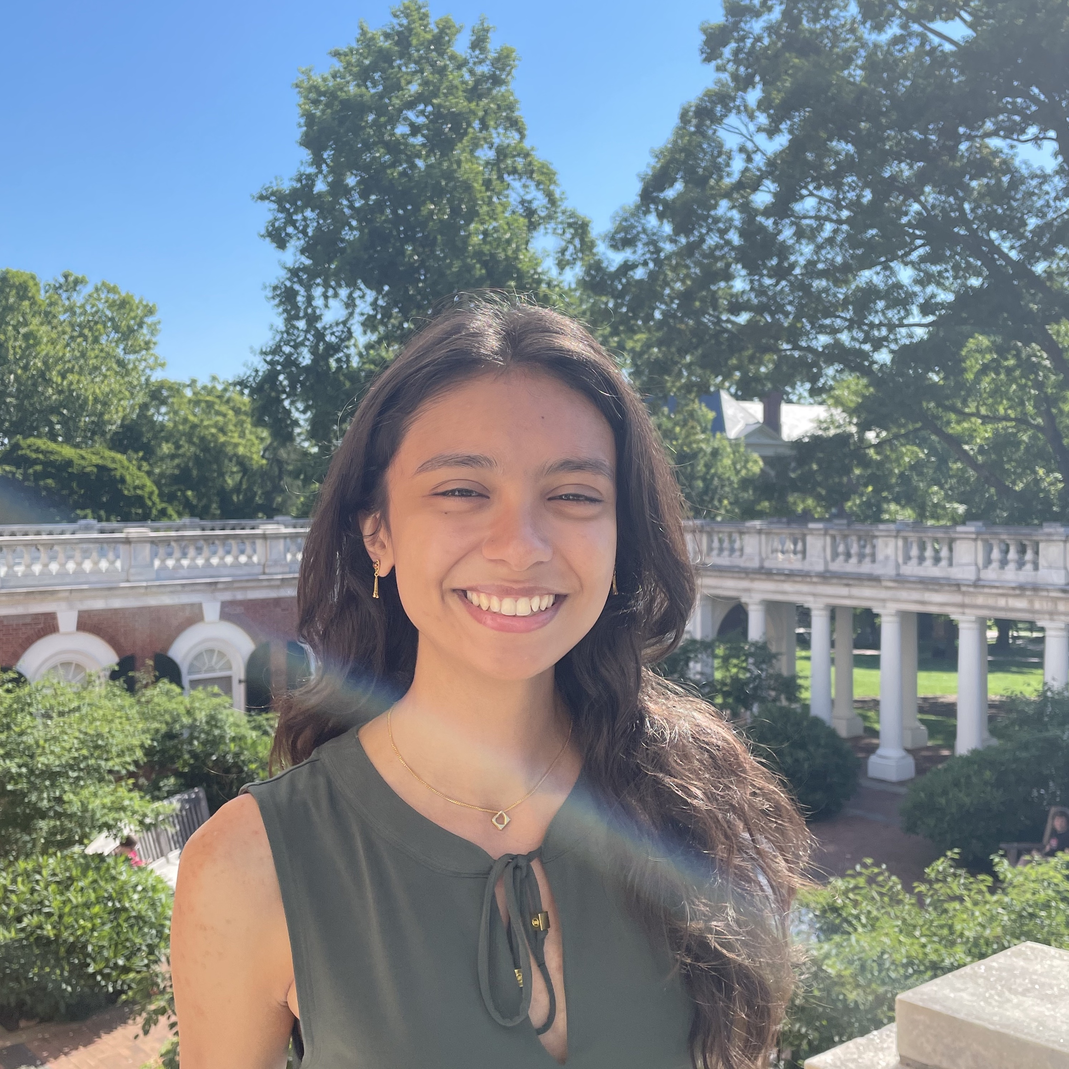
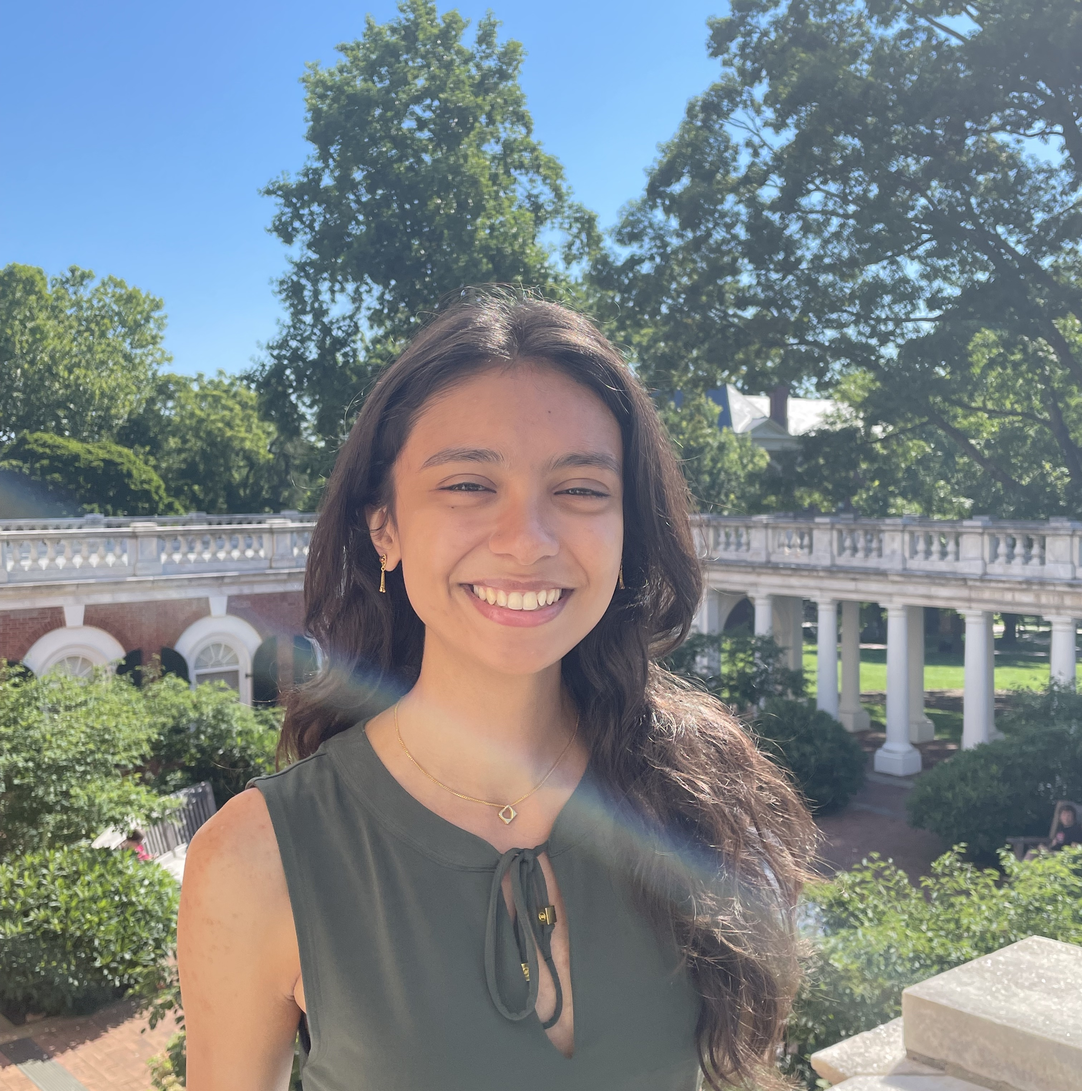
border to portrait

diff --git a/src/App.jsx b/src/App.jsx
@@ -1,6 +1,8 @@
 import { useState } from 'react'
 import reactLogo from './assets/react.svg'
+
 import peneetaPortrait from './assets/peneeta_portrait.jpg'
+
 import './App.css'
 
 import Navbar from './components/Navbar';
@@ -11,7 +13,15 @@ function App() {
     <div className="App">
       <Navbar/>
       <div className="hero">
-        <img className="peneeta-portrait square" src={peneetaPortrait} alt="peneeta portrait" />
+        <div className="portrait-wrapper">
+
+          <div className="portrait">
+            <img className="peneeta-portrait square" src={peneetaPortrait} alt="peneeta portrait" />
+          </div>
+
+        </div>
+        
+        
         <div className="container">
           <div className="text-wrapper">
             <h1>Hello, my name is <strong>Peneeta.</strong></h1>

diff --git a/src/index.css b/src/index.css
@@ -57,10 +57,23 @@ p{
   color: #44425A;
 }
 
-.hero .peneeta-portrait.square {
+.portrait  img{
+  margin: 25px;
+  border-radius: 30px;
+  opacity: 80%;
   width: 25rem;
   height: auto;
-  border-radius: 3rem;
+}
+
+.portrait  {
+  background: #575C55;
+  border-radius: 30px;
+  display: flex;
+  justify-content: center;
+  align-items: center;
+  box-shadow: 0px 1px 25px 10px rgba(0,0,0,0.25);
+  -webkit-box-shadow: 0px 15px 25px 10px rgba(0,0,0,0.25);
+  -moz-box-shadow: 0px 15px 25px 10px rgba(0,0,0,0.25);
 }
 
 .hero .container .text-wrapper {
